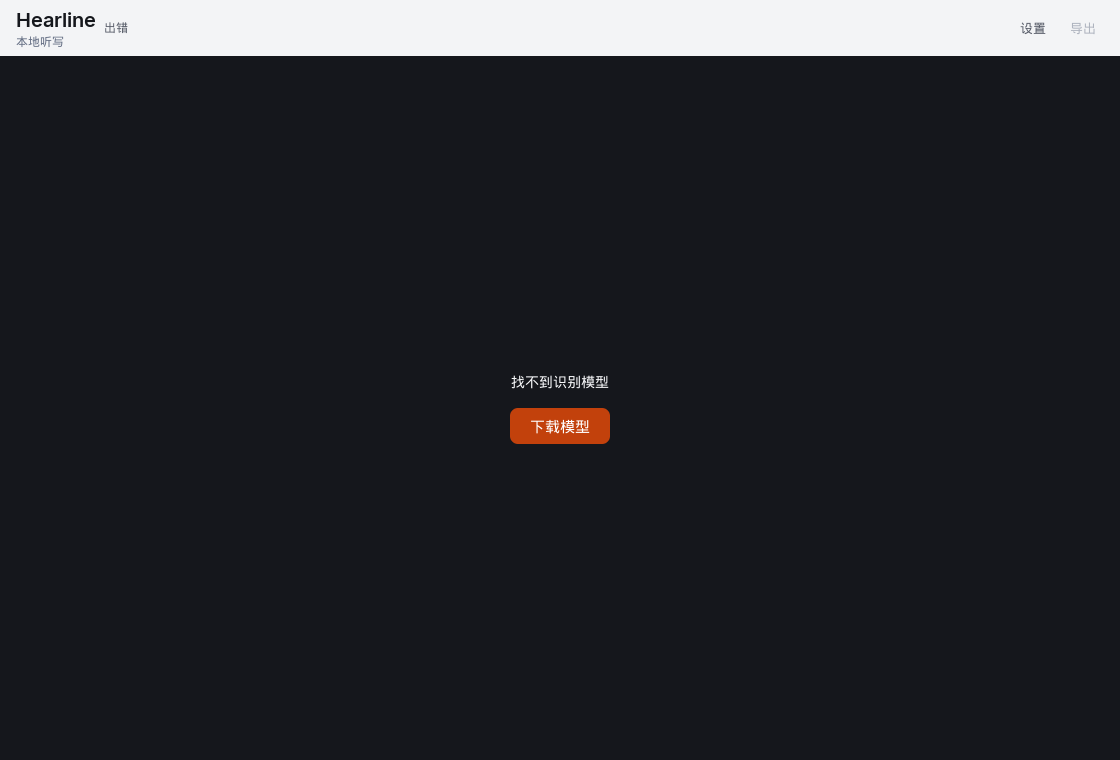
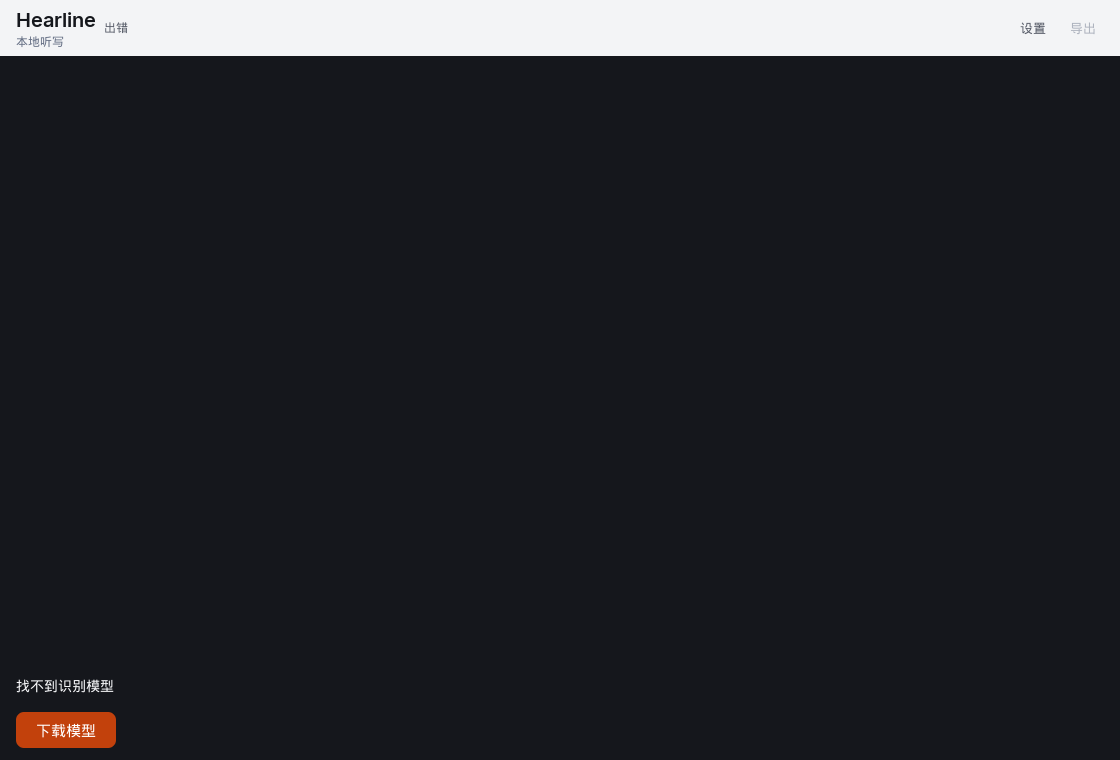
Seat the idle hint and primary on the listening bottom band.
The empty stage was a centered island. It now uses the same spacer, text, and action stack as listening, so the hint and 「开始听」 share the lower edge with the subtitle and 「停止」. Stage flush, radius 0, and the listening stack stay as they were.

Changed region(s): [[0.4375, 0.4842, 0.5625, 0.6053], [0.0, 0.8776, 0.125, 0.9987]]

diff --git a/internal/ui/view_test.go b/internal/ui/view_test.go
@@ -258,6 +258,44 @@ func TestChromeLayout(t *testing.T) {
 	}
 }
 
+func TestIdleSharesListeningBottom(t *testing.T) {
+	idle := g.NewTester(sampleEmpty().view, frameWidth, frameHeight)
+	listen := g.NewTester(sampleListening().view, frameWidth, frameHeight)
+	start, ok := idle.Find("开始听")
+	if !ok {
+		t.Fatal("idle primary missing")
+	}
+	stop, ok := listen.Find("停止")
+	if !ok {
+		t.Fatal("listening primary missing")
+	}
+	hint, ok := idle.Find(emptyHint)
+	if !ok {
+		t.Fatal("idle hint missing")
+	}
+	startBottom := start.Y + start.H
+	stopBottom := stop.Y + stop.H
+	if abs(startBottom-stopBottom) > 8 {
+		t.Fatalf("idle primary bottom %.1f, listening primary bottom %.1f", startBottom, stopBottom)
+	}
+	if hint.Y+hint.H > start.Y+2 {
+		t.Fatalf("hint should sit above the primary, hint %.1f button %.1f", hint.Y, start.Y)
+	}
+	if hint.Y < float32(frameHeight)/2 {
+		t.Fatalf("idle hint is still in the upper half, y %.1f", hint.Y)
+	}
+	if hint.X > 80 {
+		t.Fatalf("idle hint is not on the listening left edge, x %.1f", hint.X)
+	}
+}
+
+func abs(v float32) float32 {
+	if v < 0 {
+		return -v
+	}
+	return v
+}
+
 func TestStageIsFlush(t *testing.T) {
 	img := g.Render(sampleEmpty().view, frameWidth, frameHeight, 1)
 	if img == nil {

diff --git a/internal/ui/view.go b/internal/ui/view.go
@@ -255,7 +255,10 @@ func (m *Model) emptyStage(c *g.Context) {
 	default:
 		hint = emptyHint
 	}
-	g.Column(c).Grow(1).Justify(g.Center).AlignItems(g.Center).Gap(GapBlock).Children(func() {
+	// Same bottom stack as a listening stage: hint where the current line
+	// sits, primary on the same lower edge as 「停止」.
+	g.Column(c).Grow(1).Gap(GapBlock).Children(func() {
+		g.Spacer(c)
 		if hint != "" {
 			col := colorHist
 			face := TypeEmpty
@@ -263,9 +266,11 @@ func (m *Model) emptyStage(c *g.Context) {
 				col = colorOnDark
 				face = TypeBody
 			}
-			text(c, hint, face, col)
+			text(c, hint, face, col).Shrink(0)
 		}
-		m.stageAction(c)
+		g.Row(c).Shrink(0).Children(func() {
+			m.stageAction(c)
+		})
 	})
 }
 
